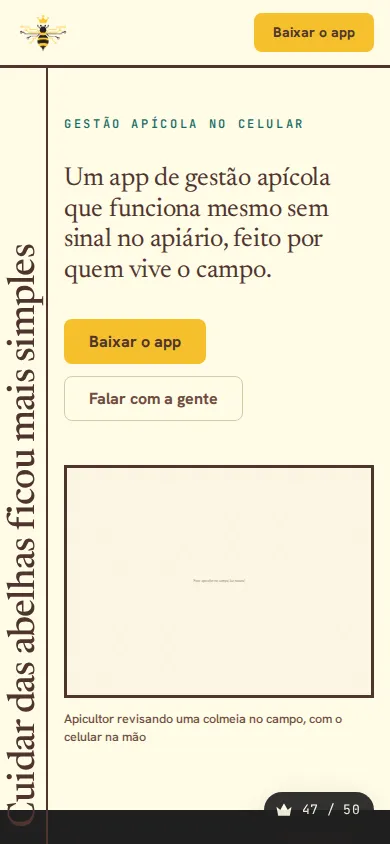
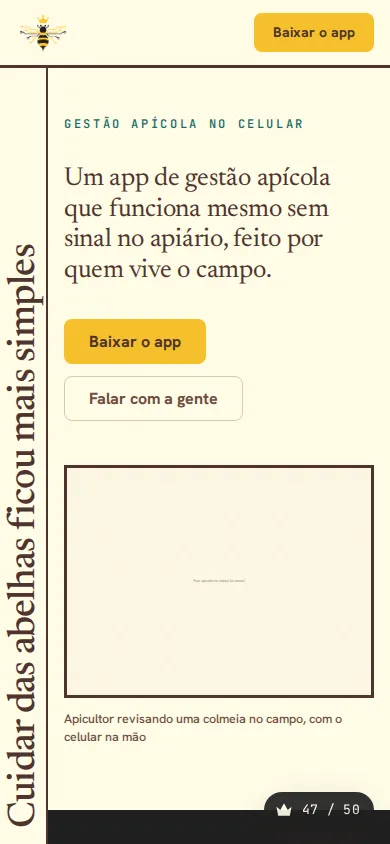
Corrige acessibilidade e legibilidade da família estrutural (47, 48, 50)
48: nomes acessíveis nos ícones do trilho; nenhuma palavra marcada em repouso.
47: coluna do cartaz com fundo próprio que troca com o tom da seção.
50: abre a gaveta do hash na chegada e no hashchange.

diff --git a/templates/48-manifesto.html b/templates/48-manifesto.html
@@ -244,13 +244,13 @@
   <nav data-secao="nav" class="trilho">
     <a class="trilho__marca" href="#inicio"><img src="../img/logos/logo-abelha-cor.png" alt="" data-c-alt="marca.alt" width="64" height="64"></a>
     <div class="trilho__links">
-      <a href="#problema"><svg class="dr-icone" aria-hidden="true"><use href="../img/icones/sprite-icones.svg#dr-alerta"></use></svg><span class="trilho__dica" data-c="problema.eyebrow"></span></a>
-      <a href="#funcionalidades"><svg class="dr-icone" aria-hidden="true"><use href="../img/icones/sprite-icones.svg#dr-favo"></use></svg><span class="trilho__dica" data-c="funcionalidades.eyebrow"></span></a>
-      <a href="#como-funciona"><svg class="dr-icone" aria-hidden="true"><use href="../img/icones/sprite-icones.svg#dr-revisao"></use></svg><span class="trilho__dica" data-c="comoFunciona.eyebrow"></span></a>
-      <a href="#para-quem"><svg class="dr-icone" aria-hidden="true"><use href="../img/icones/sprite-icones.svg#dr-abelha"></use></svg><span class="trilho__dica" data-c="paraQuem.eyebrow"></span></a>
-      <a href="#tecnologia"><svg class="dr-icone" aria-hidden="true"><use href="../img/icones/sprite-icones.svg#dr-drone"></use></svg><span class="trilho__dica" data-c="tecnologia.eyebrow"></span></a>
-      <a href="#equipe"><svg class="dr-icone" aria-hidden="true"><use href="../img/icones/sprite-icones.svg#dr-rainha"></use></svg><span class="trilho__dica" data-c="equipe.eyebrow"></span></a>
-      <a href="#contato"><svg class="dr-icone" viewBox="0 0 24 24" fill="none" stroke="currentColor" stroke-width="1.8" stroke-linecap="round" stroke-linejoin="round" aria-hidden="true"><rect x="2" y="4" width="20" height="16" rx="2"/><path d="m22 7-8.97 5.7a1.94 1.94 0 0 1-2.06 0L2 7"/></svg><span class="trilho__dica" data-c="contato.eyebrow"></span></a>
+      <a href="#problema"><svg class="dr-icone" aria-hidden="true"><use href="../img/icones/sprite-icones.svg#dr-alerta"></use></svg><span class="dr-sr-only" data-c="problema.eyebrow"></span><span class="trilho__dica" aria-hidden="true" data-c="problema.eyebrow"></span></a>
+      <a href="#funcionalidades"><svg class="dr-icone" aria-hidden="true"><use href="../img/icones/sprite-icones.svg#dr-favo"></use></svg><span class="dr-sr-only" data-c="funcionalidades.eyebrow"></span><span class="trilho__dica" aria-hidden="true" data-c="funcionalidades.eyebrow"></span></a>
+      <a href="#como-funciona"><svg class="dr-icone" aria-hidden="true"><use href="../img/icones/sprite-icones.svg#dr-revisao"></use></svg><span class="dr-sr-only" data-c="comoFunciona.eyebrow"></span><span class="trilho__dica" aria-hidden="true" data-c="comoFunciona.eyebrow"></span></a>
+      <a href="#para-quem"><svg class="dr-icone" aria-hidden="true"><use href="../img/icones/sprite-icones.svg#dr-abelha"></use></svg><span class="dr-sr-only" data-c="paraQuem.eyebrow"></span><span class="trilho__dica" aria-hidden="true" data-c="paraQuem.eyebrow"></span></a>
+      <a href="#tecnologia"><svg class="dr-icone" aria-hidden="true"><use href="../img/icones/sprite-icones.svg#dr-drone"></use></svg><span class="dr-sr-only" data-c="tecnologia.eyebrow"></span><span class="trilho__dica" aria-hidden="true" data-c="tecnologia.eyebrow"></span></a>
+      <a href="#equipe"><svg class="dr-icone" aria-hidden="true"><use href="../img/icones/sprite-icones.svg#dr-rainha"></use></svg><span class="dr-sr-only" data-c="equipe.eyebrow"></span><span class="trilho__dica" aria-hidden="true" data-c="equipe.eyebrow"></span></a>
+      <a href="#contato"><svg class="dr-icone" viewBox="0 0 24 24" fill="none" stroke="currentColor" stroke-width="1.8" stroke-linecap="round" stroke-linejoin="round" aria-hidden="true"><rect x="2" y="4" width="20" height="16" rx="2"/><path d="m22 7-8.97 5.7a1.94 1.94 0 0 1-2.06 0L2 7"/></svg><span class="dr-sr-only" data-c="contato.eyebrow"></span><span class="trilho__dica" aria-hidden="true" data-c="contato.eyebrow"></span></a>
     </div>
     <a class="trilho__cta" data-c-href="cta.baixar.url"><svg class="dr-icone" viewBox="0 0 24 24" fill="none" stroke="currentColor" stroke-width="1.8" stroke-linecap="round" stroke-linejoin="round" aria-hidden="true"><path d="M12 15V3"/><path d="M21 15v4a2 2 0 0 1-2 2H5a2 2 0 0 1-2-2v-4"/><path d="m7 10 5 5 5-5"/></svg><span class="dr-sr-only" data-c="cta.baixar.texto"></span></a>
   </nav>
@@ -626,18 +626,18 @@
           var primeiro = gsap.timeline({ delay: 0.15 });
           acender(primeiro, hero[0].palavras, 0.14);
 
-          // Versos 2–4 acendem com a rolagem, com o hero preso na tela enquanto isso.
+          // Versos 2–4 acendem com a rolagem (início em 0,05: em repouso nenhuma palavra fica marcada), com o hero preso na tela enquanto isso.
           var demais = [];
           hero.slice(1).forEach(function (g) { demais = demais.concat(g.palavras); });
           var tlHero = gsap.timeline({
             scrollTrigger: { trigger: '[data-hero]', start: 'top top', end: '+=' + Math.round(window.innerHeight * 1.1), scrub: 0.4, pin: true }
           });
-          acender(tlHero, demais, 0.2);
+          acender(tlHero, demais, 0.2, 0.05);
 
           // Nas seções, cada título e a citação acendem no próprio ritmo de leitura.
           resto.forEach(function (g) {
             var tl = gsap.timeline({ scrollTrigger: { trigger: g.el, start: 'top 85%', end: 'top 45%', scrub: 0.4 } });
-            acender(tl, g.palavras, 0.2);
+            acender(tl, g.palavras, 0.2, 0.05);
           });
 
           // C4: os hexágonos assentam um a um.

diff --git a/templates/50-arquivo.html b/templates/50-arquivo.html
@@ -642,6 +642,16 @@
             definir(g, g.botao.getAttribute('aria-expanded') !== 'true');
           });
         });
+        // Chegada com #ancora (galeria, outra página) ou troca de hash: abre a gaveta e rola até ela.
+        function abrirHash(instantaneo) {
+          var id = decodeURIComponent((location.hash || '').slice(1));
+          if (!id) return;
+          var g = gavetas.filter(function (x) { return x.sec.id === id; })[0];
+          if (!g) return;
+          if (g.botao.getAttribute('aria-expanded') !== 'true') definir(g, true, instantaneo);
+          requestAnimationFrame(function () { g.sec.scrollIntoView({ block: 'start' }); });
+        }
+        window.addEventListener('hashchange', function () { abrirHash(false); });
         // Links para uma seção abrem a gaveta correspondente antes de rolar até ela.
         document.querySelectorAll('a[href^="#"]').forEach(function (a) {
           a.addEventListener('click', function () {
@@ -659,6 +669,7 @@
           // Com movimento: o arquivo começa fechado, exceto a gaveta do hero.
           animar = true;
           gavetas.forEach(function (g, i) { definir(g, i === 0, true); });
+          abrirHash(true);
 
           // As frentes das gavetas entram encaixando, de cima para baixo (≈0,9s).
           gsap.from(gavetas.map(function (g) { return g.botao; }), {

diff --git a/templates/47-poster.html b/templates/47-poster.html
@@ -27,9 +27,10 @@
       --respiro: var(--sp-9);
       --tinta: var(--terra-escura);
       --tinta-sub: var(--terra);
+      --cartaz-fundo: var(--creme);
     }
     @media (max-width: 1023px) { :root { --nav-h: 68px; --cartaz-w: 48px; --respiro: var(--sp-8); } }
-    body.sobre-escuro { --tinta: var(--creme); --tinta-sub: var(--mel-claro); }
+    body.sobre-escuro { --tinta: var(--creme); --tinta-sub: var(--mel-claro); --cartaz-fundo: var(--grafite); }
 
     h1, h2, h3, p, figure, blockquote, ul, ol { margin: 0; }
     ul, ol { padding: 0; list-style: none; }
@@ -67,7 +68,9 @@
       border-right: 3px solid var(--tinta); pointer-events: none;
       display: flex; align-items: stretch; justify-content: flex-start;
       padding: var(--sp-6) 0 var(--sp-6) var(--sp-6);
-      transition: border-color .3s ease;
+      /* fundo próprio que troca junto com a tinta: o título nunca fica sobre a faixa errada */
+      background: var(--cartaz-fundo);
+      transition: border-color .3s ease, background-color .3s ease;
     }
     .cartaz__titulo {
       writing-mode: vertical-rl; transform: rotate(180deg);
